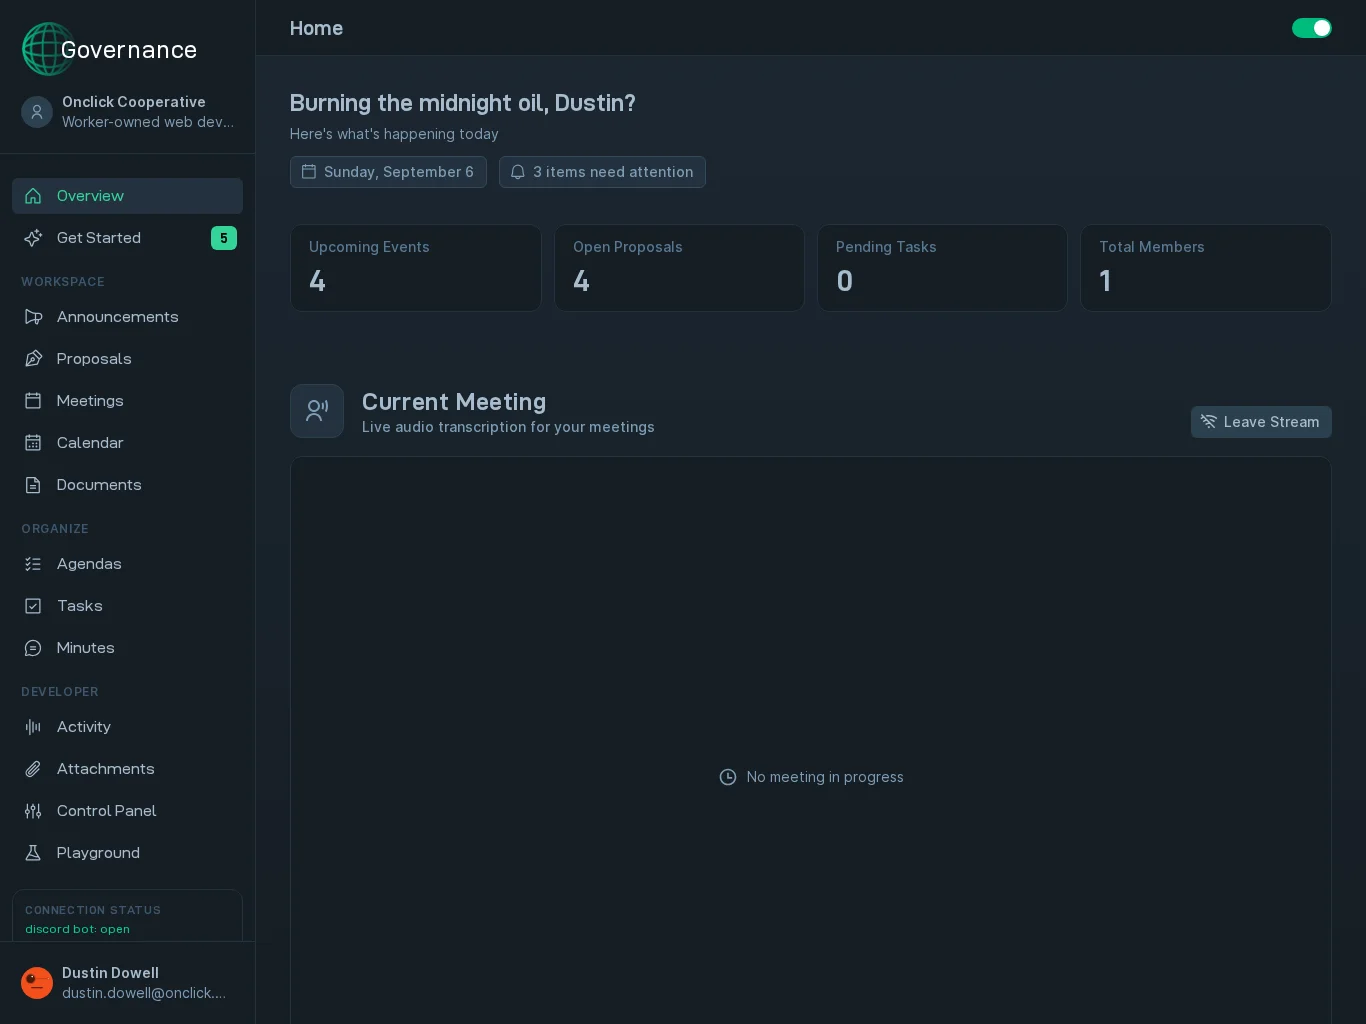
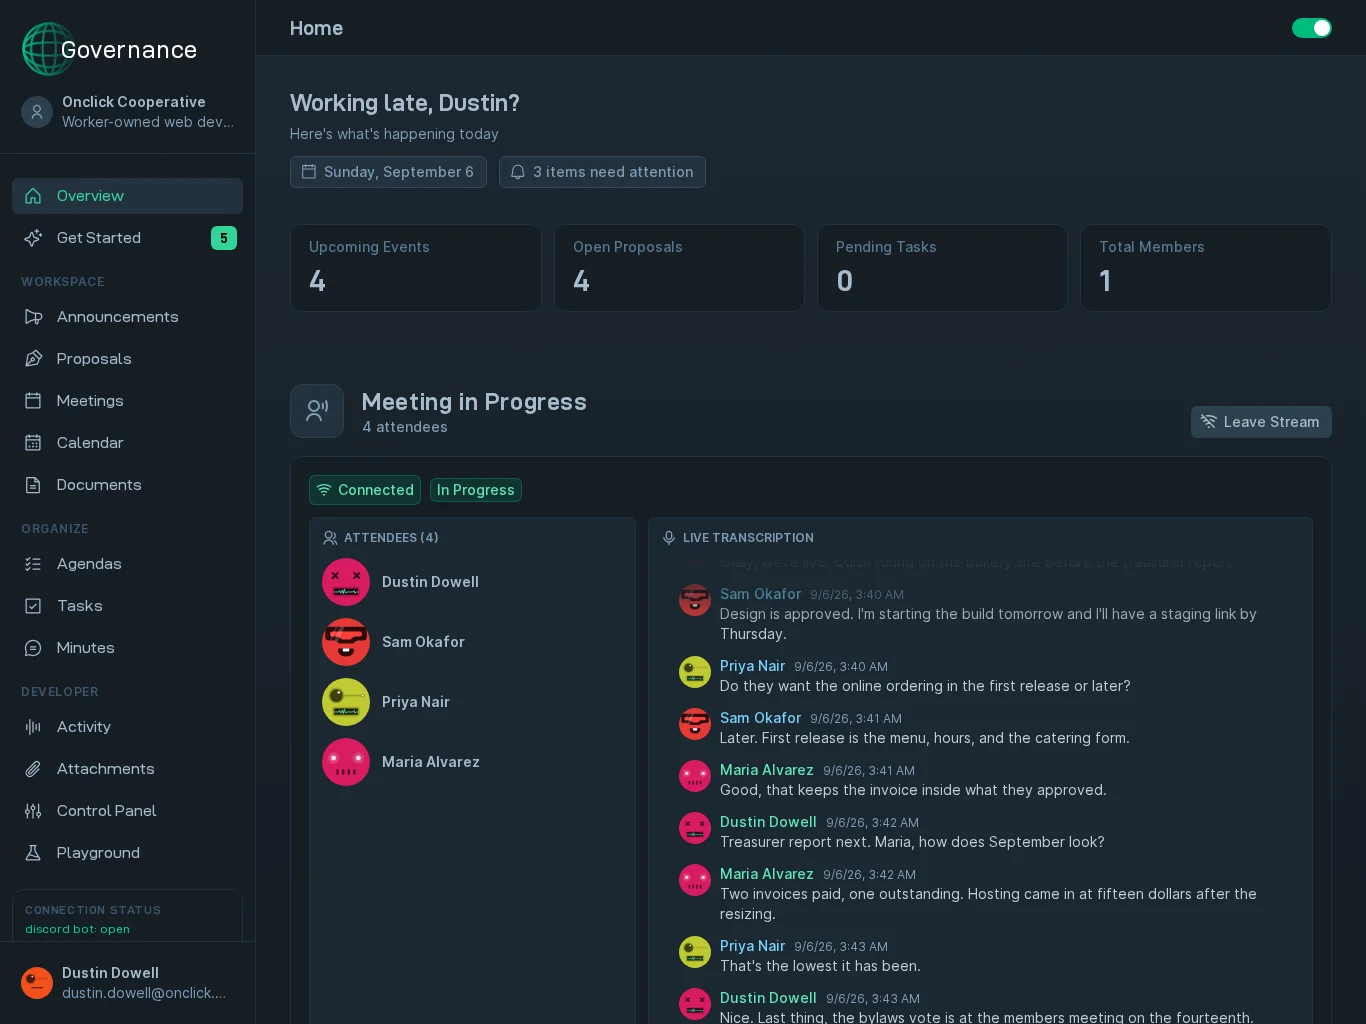
chore(client): add the live meeting and get started screenshots

diff --git a/client/src/features/work/products/onclick.md b/client/src/features/work/products/onclick.md
@@ -6,7 +6,7 @@ tagline: "Meeting governance for cooperatives: agendas, proposals, minutes, and 
 order: 2
 images:
   - src: /screenshots/onclick/01_overview.webp
-    alt: "Collective overview"
+    alt: "Overview with a live meeting transcription"
   - src: /screenshots/onclick/05_calendar.webp
     alt: "Meeting calendar"
   - src: /screenshots/onclick/02_proposals.webp
@@ -19,6 +19,8 @@ images:
     alt: "Meeting minutes with the transcript"
   - src: /screenshots/onclick/08_documents.webp
     alt: "Documents"
+  - src: /screenshots/onclick/02_get-started.webp
+    alt: "Get started checklist"
 ---
 
 ## ABOUT
